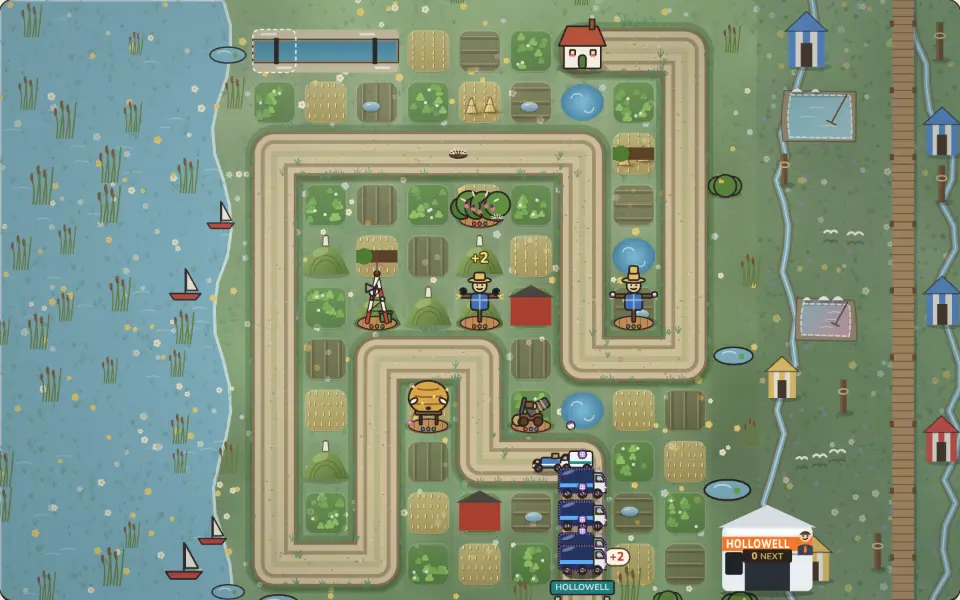
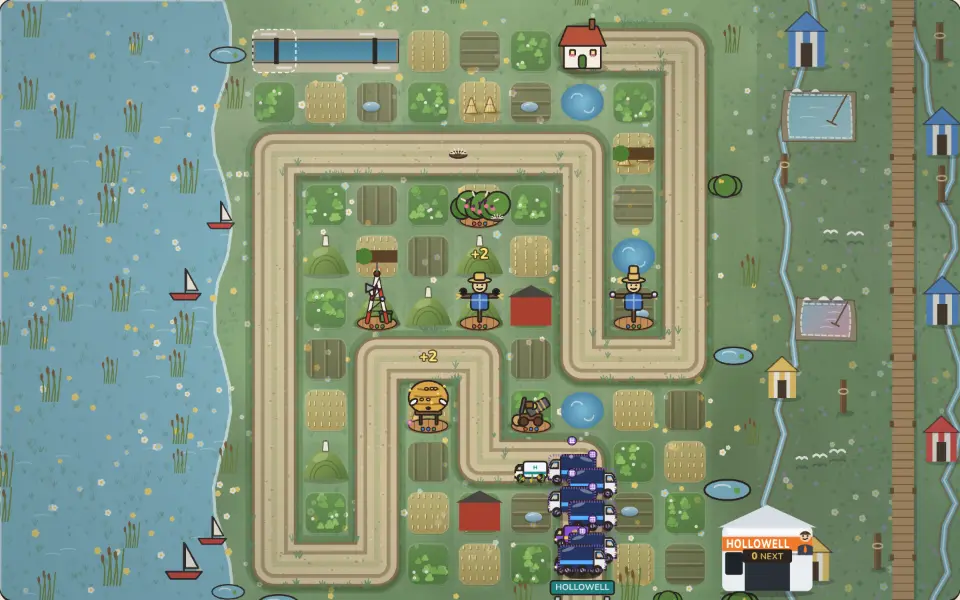
Hedgerow 3D: Highmoor heather and gorse in clumps (item 262 slice 3)
Claude-Session: https://claude.ai/code/session_01SimvMN1RHBGCWN7Eo7MzhN

diff --git a/games/hedgerow/src/render3d/terrain.ts b/games/hedgerow/src/render3d/terrain.ts
@@ -1160,13 +1160,21 @@ export function buildGround(level: Level): Ground {
     const heathCols = ["#8a5a9a", "#9b6fb8", "#7a4f88"].map((c) => new THREE.Color(c));
     const gorseCol = new THREE.Color("#d9b02e");
     const granite = ["#8e8a82", "#a09a90", "#7c786f"].map((c) => new THREE.Color(c));
-    for (let i = 0; i < 420; i++) {
-      const x = -4 + deco() * (cols + 8);
-      const z = -4 + deco() * (rows + 8);
-      if (!outside(x, z)) continue;
-      const y = heightAt(x, z);
-      if (deco() < 0.78) heather.push({ x, y: y + 0.02, z, ry: deco() * 6.3, s: 0.11 + deco() * 0.08, sy: 0.55, color: heathCols[Math.floor(deco() * 3)]! });
-      else gorse.push({ x, y: y + 0.05, z, ry: deco() * 6.3, s: 0.12 + deco() * 0.06, sy: 0.8, color: gorseCol });
+    // Plan item 262: in clumps of one plant and one colour (single bushes strewn evenly read as purple confetti).
+    for (let i = 0; i < 75; i++) {
+      const cx = -4 + deco() * (cols + 8);
+      const cz = -4 + deco() * (rows + 8);
+      const isHeather = deco() < 0.78;
+      const col = heathCols[Math.floor(deco() * 3)]!;
+      const n = 4 + Math.floor(deco() * 4);
+      for (let k = 0; k < n; k++) {
+        const x = cx + (deco() - 0.5) * 0.5;
+        const z = cz + (deco() - 0.5) * 0.5;
+        if (!outside(x, z)) continue;
+        const y = heightAt(x, z);
+        if (isHeather) heather.push({ x, y: y + 0.02, z, ry: deco() * 6.3, s: 0.11 + deco() * 0.08, sy: 0.55, color: col });
+        else gorse.push({ x, y: y + 0.05, z, ry: deco() * 6.3, s: 0.12 + deco() * 0.06, sy: 0.8, color: gorseCol });
+      }
     }
     // A few tors: stacked slabs of granite out beyond the hedge.
     for (let t = 0; t < 4; t++) {

diff --git a/docs/plan/two-week-plan.md b/docs/plan/two-week-plan.md
@@ -2670,7 +2670,7 @@ The items come from fresh-eyes audits on 2026-11-01 and 2026-11-02 (items 25-32:
 - **Accept:** 3 or more props in the D title shot, none in front of her figure or touching the sign; the sign's reflection visible on the ground in the D pick (the D title frames above her knees; the P title and pick frame no ground); a contact shadow in the D pick shot; no 80 px empty black band on the P title; cathode-perf within budget (+8 draw calls at most); cathode-front, classpick pass; key art re-shot.
 - **Size:** 2
 
-## 262. [ ] Hedgerow 3D: the verges as authored countryside *(lane B, in progress)* *(slice 1, 2026-11-08 03:40 lane B: Saltmarsh's verge flats in three colours laid in broad patches by a smooth field (silt, samphire, tide pool), not six speckled per patch; its reeds in tight clumps of 9 in lighter straw (they read as scattered black sticks); no new meshes. biome3d, closeframe, 3dframe pass (38); key art re-shot; before/after scratchpad cmp262P2, cmp262D2. Left: a water plane with lily clumps, a wall or hedge along the fence, grouped trees and stones; the other acts' verges)* *(slice 2, 03:50: the village green landmark (D l5's flat pale rectangle) is a kept green: mown stripes, a low white rail with a gate gap, flower clumps and a second tree; P l5 draw calls 471 -> 475; dressing3d, biome3d pass (22); before/after scratchpad cmpgreen. Checked: act 1 and act 5 verges (l5, l45) are already authored hedges, trees and stones)*
+## 262. [ ] Hedgerow 3D: the verges as authored countryside *(lane B, in progress)* *(slice 1, 2026-11-08 03:40 lane B: Saltmarsh's verge flats in three colours laid in broad patches by a smooth field (silt, samphire, tide pool), not six speckled per patch; its reeds in tight clumps of 9 in lighter straw (they read as scattered black sticks); no new meshes. biome3d, closeframe, 3dframe pass (38); key art re-shot; before/after scratchpad cmp262P2, cmp262D2. Left: a water plane with lily clumps, a wall or hedge along the fence, grouped trees and stones; the other acts' verges)* *(slice 2, 03:50: the village green landmark (D l5's flat pale rectangle) is a kept green: mown stripes, a low white rail with a gate gap, flower clumps and a second tree; P l5 draw calls 471 -> 475; dressing3d, biome3d pass (22); before/after scratchpad cmpgreen. Checked: act 1 and act 5 verges (l5, l45) are already authored hedges, trees and stones)* *(slice 3, 04:00: Highmoor's heather and gorse grow in clumps of 4-7 of one plant and one colour (75 clumps), not single bushes strewn evenly (D l15's purple confetti); biome3d, 3dframe pass (35); key art re-shot; shot scratchpad l15/l15a. Left: Rivermead (l35) and later acts' verges, the Saltmarsh water's lily clumps, walls along fences)*
 - **Why:** `plan1107f/hedge-l21-3d-P` (0-100 x 60-690) and `hedge-l21-3d-D` (15-250 x 80-640): the saltmarsh verge is lumpy flat-shaded grey-green patches with single black reed sticks; from above it reads as noise, where the 2D verge (`hedge-l21-2d-D`, 15-280 x 75-890) reads as water with reeds and flowers.
 - **Build:** replace the patch mesh with authored verge pieces in the 2D palette: a water plane with lily and reed clumps, a dry-stone wall or hedge along the field fence, grouped trees and stones; per biome where the act has its own verge.
 - **Accept:** the verge in both 3D shots at most 4 flat colours plus water; reeds only in clumps of 3 or more; a clear water/land edge at P and D; draw calls +6 or fewer at P; `?2d` shots unchanged; hedgerow-biome3d, -3dframe, -closeframe pass; key art re-shot.
